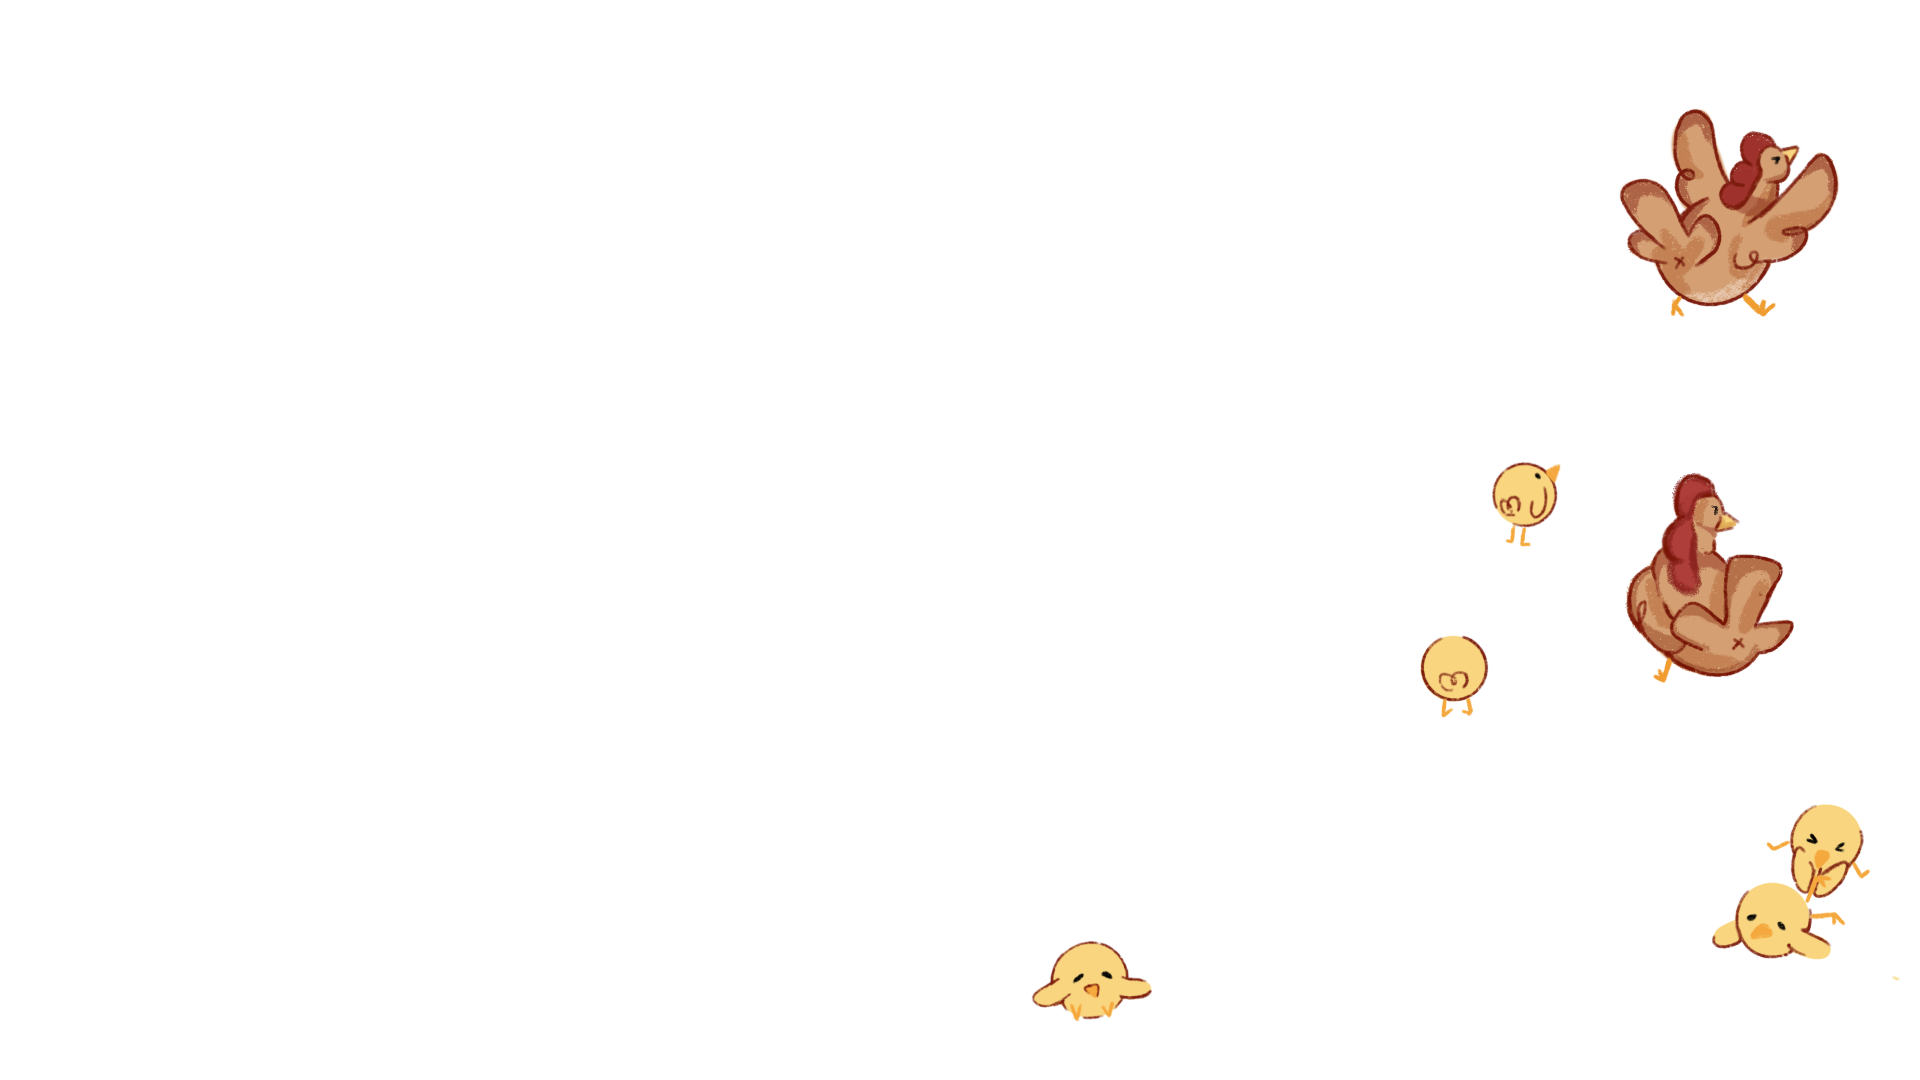
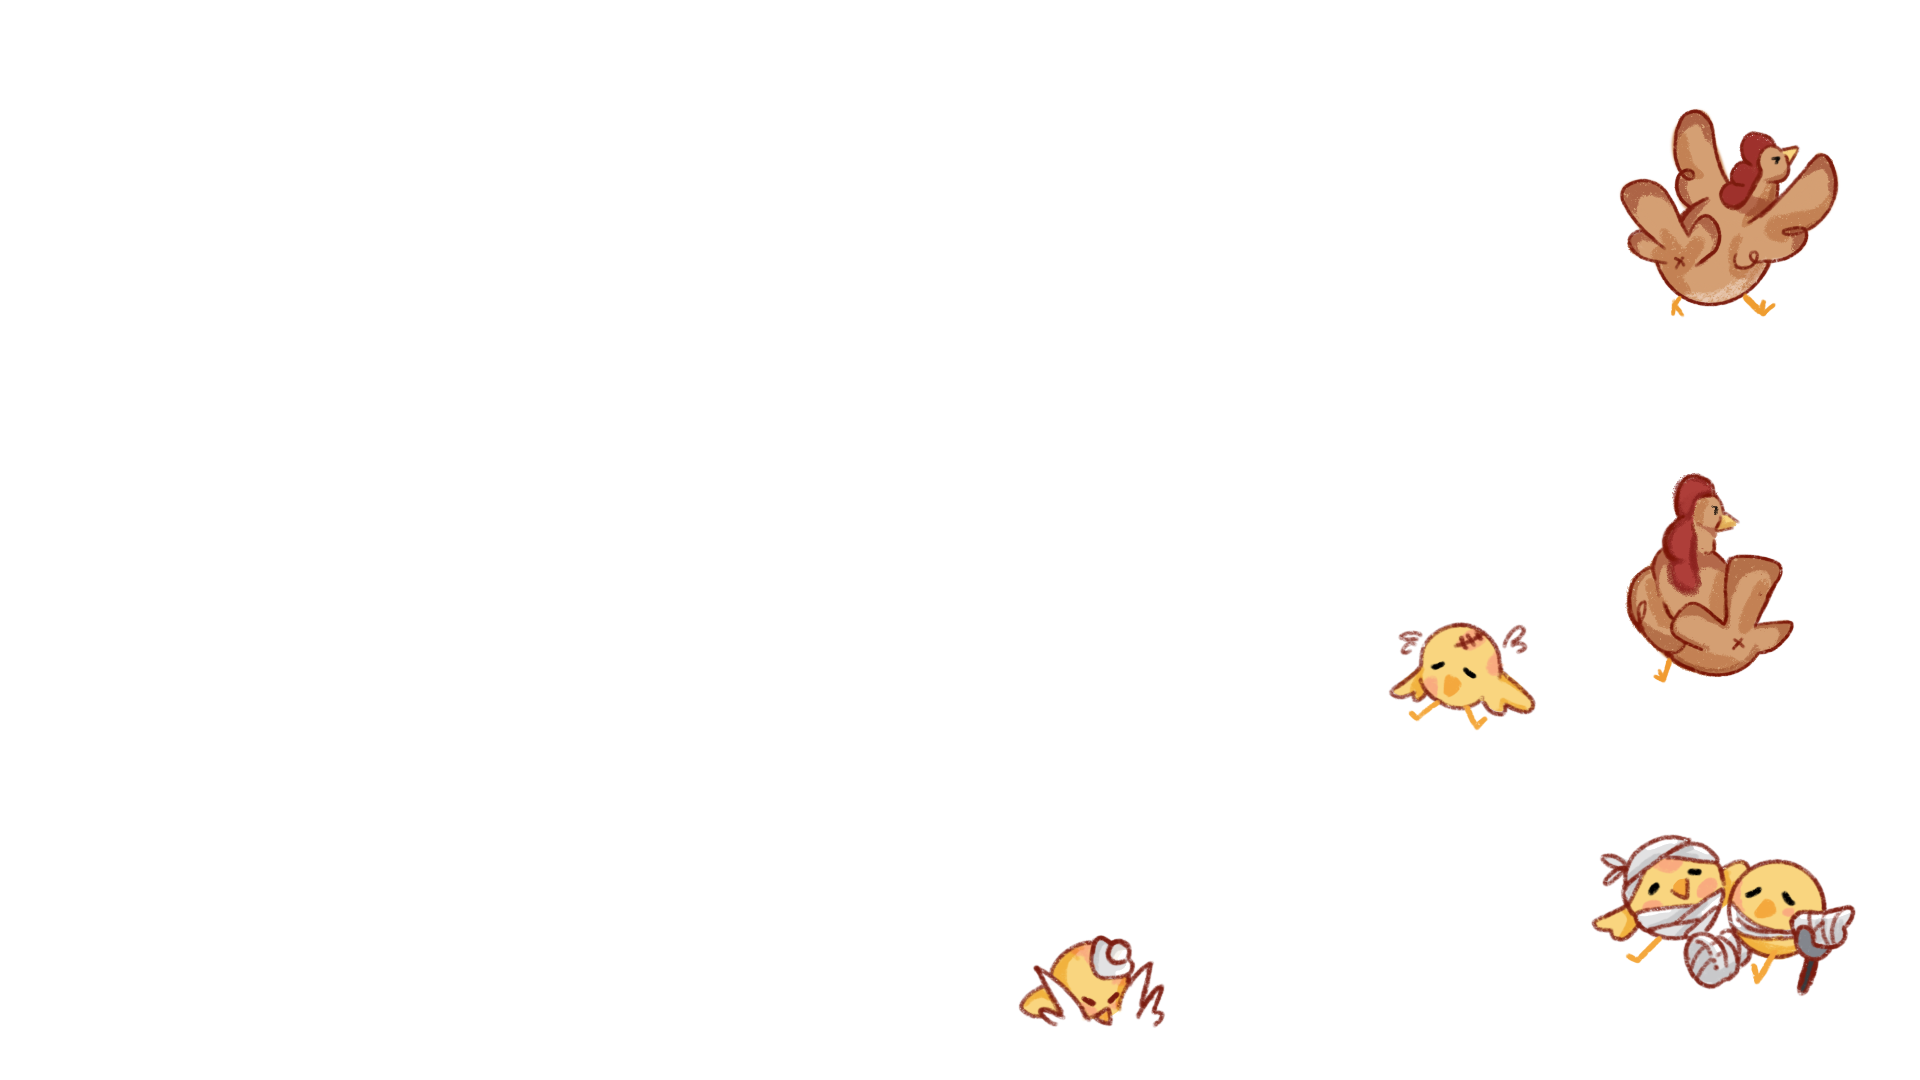
New assets almost all imported

diff --git a/FrontEnd/front-end/src/scenes/Home.js b/FrontEnd/front-end/src/scenes/Home.js
@@ -7,7 +7,7 @@ const height = 835;
 const imageHeight = 1390;
 const imageWidth = 1417;
 const textPerPage = 50; // Maximum number of characters per page
-const surveyBatteryCost = 50;
+const surveyBatteryCost = 25;
 
 let batteryCharge = 100;
 
@@ -16,11 +16,18 @@ class Home extends Phaser.Scene {
         super({ key: 'Home' });
     }
     preload() {
+        //Background
         this.load.image('barn', `${backgroundDir}CampoVainilla.png`);
-        this.load.spritesheet("Alegre", `${spritesDir}A.png`, { frameWidth: imageWidth, frameHeight: imageHeight });
-        this.load.spritesheet("Triste", `${spritesDir}T.png`, { frameWidth: imageWidth, frameHeight: imageHeight });
-        this.load.spritesheet("Enojado", `${spritesDir}E.png`, { frameWidth: imageWidth, frameHeight: imageHeight });
-        this.load.spritesheet("Neutral", `${spritesDir}N.png`, { frameWidth: imageWidth, frameHeight: imageHeight });
+        //Character sprites
+        var characterSkin = this.getCharacterSkin();
+        this.load.spritesheet("Alegre", `${spritesDir}/${characterSkin}/A.png`, { frameWidth: imageWidth, frameHeight: imageHeight });
+        this.load.spritesheet("Triste", `${spritesDir}/${characterSkin}/T.png`, { frameWidth: imageWidth, frameHeight: imageHeight });
+        this.load.spritesheet("Enojado", `${spritesDir}/${characterSkin}/E.png`, { frameWidth: imageWidth, frameHeight: imageHeight });
+        this.load.spritesheet("Neutral", `${spritesDir}/${characterSkin}/N.png`, { frameWidth: imageWidth, frameHeight: imageHeight });
+        //Battery indicator
+        this.load.spritesheet('battery', '../assets/sprites/battery/Batteries.png', { frameWidth: imageWidth, frameHeight: imageHeight });
+
+
     }
     create(){
         this.barn = this.add.image(width / 2, height / 2, 'barn');
@@ -237,6 +244,9 @@ class Home extends Phaser.Scene {
     getCharacterMood() {
         return 1;
     }
+    getCharacterSkin(){
+        return "Green";
+    }
     createBatteryIndicator() {
         const batteryIndicator = this.add.text(50, 50,  `Battery %: ${batteryCharge}`, {
             font: '50px Arial',
@@ -246,6 +256,25 @@ class Home extends Phaser.Scene {
         batteryIndicator.on('pointerdown', () => {
             batteryCharge =+ 1;
         });
+        this.battery = this.add.sprite(420, 60, 'battery');
+        this.battery.displayHeight = 130;
+        this.battery.displayWidth = 130;
+        this.updateBatteryIndicator();
+
+    }
+    updateBatteryIndicator() {
+        // Clamp the battery charge between 0 and 100
+        let batterySprite = Phaser.Math.Clamp(batteryCharge, 0, 100);
+        
+        // Calculate the corresponding frame (0 to 4)
+        batterySprite = Phaser.Math.FloorTo(batterySprite / 25);
+        
+        // Invert the frame order
+        const totalFrames = 5; // Assuming there are 5 frames (0 to 4)
+        const invertedFrame = totalFrames - 1 - batterySprite;
+        
+        // Set the frame to the battery sprite
+        this.battery.setFrame(invertedFrame);
     }
 }
 function sendHttpRequest(text) {

diff --git a/FrontEnd/front-end/src/scenes/Rewards.js b/FrontEnd/front-end/src/scenes/Rewards.js
@@ -36,7 +36,7 @@ class Rewards extends Phaser.Scene {
         super({key :'Rewards'});
     }
     preload() {
-        this.load.image('saucer', `${backgroundDir}GoldSaucer.png`);
+        this.load.image('saucer', `${backgroundDir}Casino.png`);
     }
     create() {
         this.saucer = this.add.image(width / 2, height / 2, 'saucer');

diff --git a/FrontEnd/front-end/src/scenes/Survey.js b/FrontEnd/front-end/src/scenes/Survey.js
@@ -21,6 +21,7 @@ class Survey extends Phaser.Scene {
         this.createWritableTextBox(0, height - 400, width / 2, 400);
         this.createUnWritableTextBox(0, height - 400, width / 2, 400);
         this.createExitButton();
+        updateText();
     }
 
     createWritableTextBox(x, y, width, height) {
